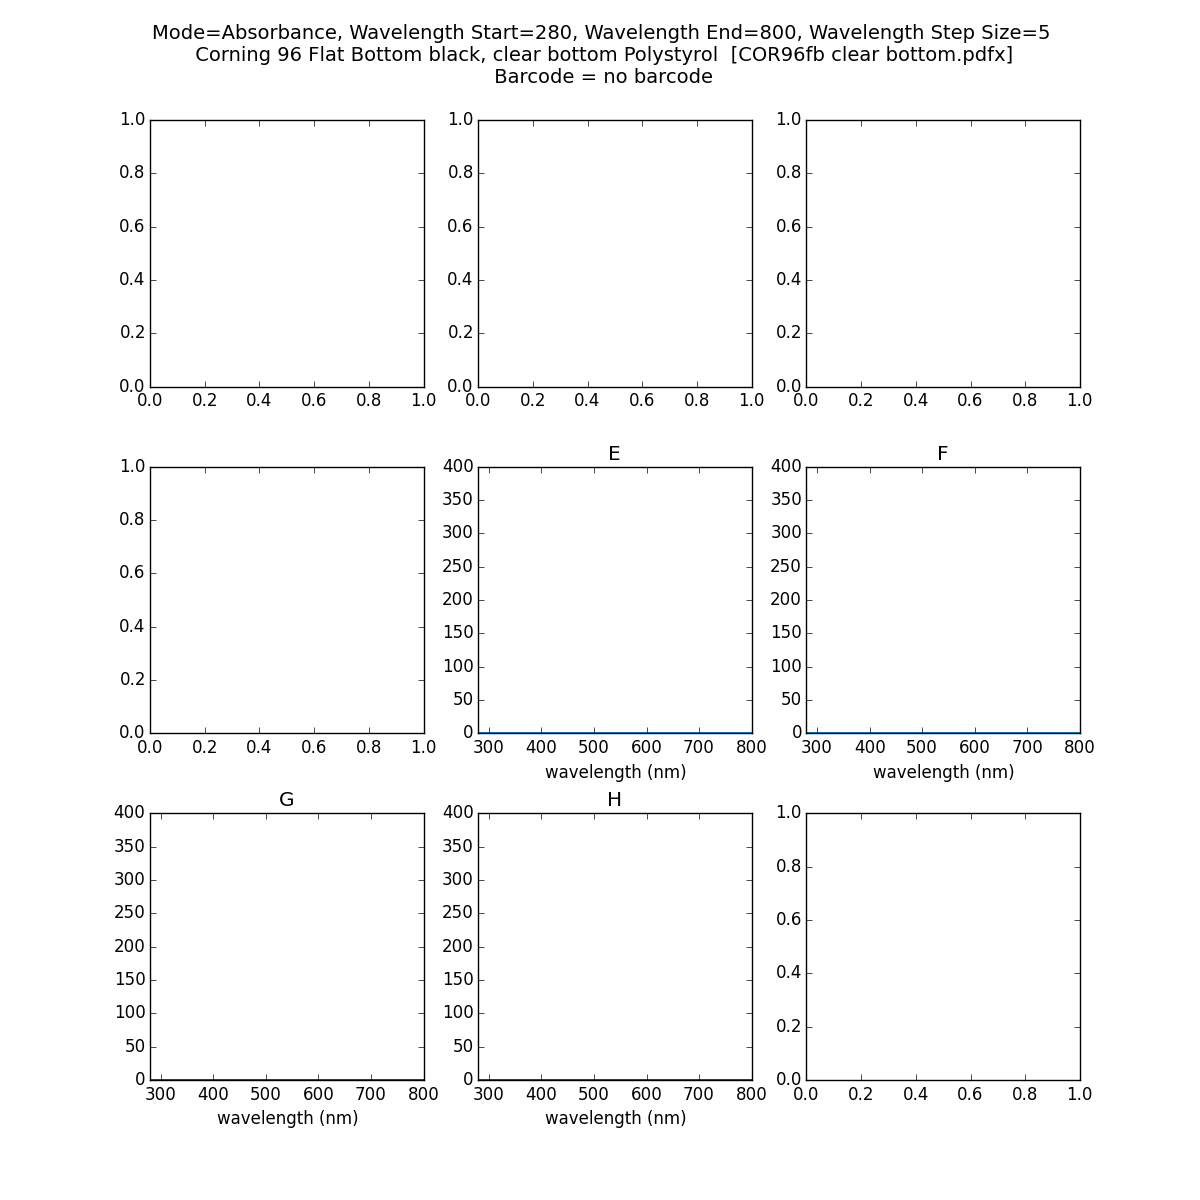
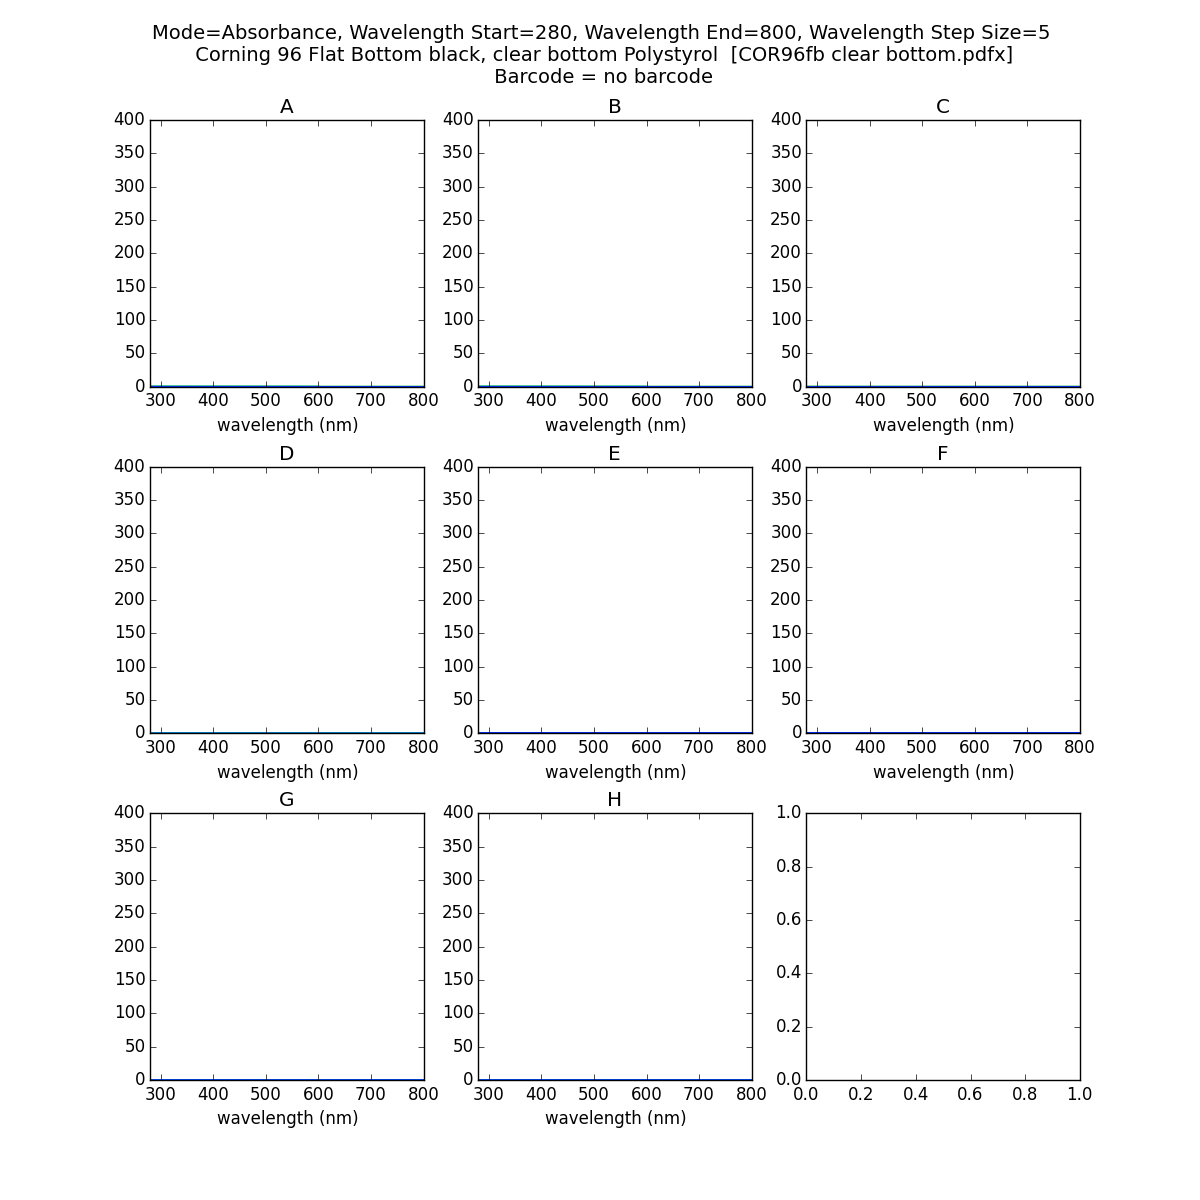
Fixed spectra script to combine plotting for all pngs

diff --git a/examples/xml2png_spectra/xml2png4scans-spectra.py b/examples/xml2png_spectra/xml2png4scans-spectra.py
@@ -1,0 +1,170 @@
+# This script takes xml data file output from the Tecan Infinite m1000 Pro plate reader
+# and makes quick and dirty images of the raw data.
+
+# But with scans and not just singlet reads.
+# This script specifically combines four spectrum scripts (AB, CD, EF, GH) into a single dataframe and plot.
+
+# The same procedure can be used to make matrices suitable for analysis using
+# matrix = dataframe.values
+
+# Made by Sonya Hanson, with some help from things that worked in xml2png.py and xml2png4scans.py
+# Friday, November 18,2015
+
+# Usage: python xml2png4scans-spectra.py *.xml
+
+############ For future to combine with xml2png.py
+#
+#    for i, sect in enumerate(Sections):
+#        reads = sect.xpath("*/Well")
+#        parameters = root.xpath(path)[0]
+#        if reads[0].attrib['Type'] == "Scan":
+#
+##############
+
+import matplotlib.pyplot as plt
+from lxml import etree
+import pandas as pd
+import matplotlib.cm as cm
+import sys
+import os
+
+### Define xml files.
+
+xml_files = sys.argv[1:]
+
+so_many = len(xml_files)
+print "****This script is about to make png files for %s xml files. ****"  % so_many
+
+### Define extract function that extracts parameters
+
+def extract(taglist):
+    result = []
+    for p in taglist:
+        print "Attempting to extract tag '%s'..." % p
+        try:
+            param = parameters.xpath("*[@Name='" + p + "']")[0]
+            result.append( p + '=' + param.attrib['Value'])
+        except:
+            ### tag not found
+            result.append(None)
+
+    return result
+
+### Define an initial set of dataframes, one per each section
+
+root = etree.parse(xml_files[0])
+
+  # Define Sections.
+
+Sections = root.xpath("/*/Section")
+
+  # Extract Reads for this section.
+
+Sections = root.xpath("/*/Section")
+
+reads = root.xpath("/*/Section[@Name='" + Sections[0].attrib['Name'] + "']/*/Well")
+
+wellIDs = [read.attrib['Pos'] for read in reads]
+
+data = [(float(s.text), float(s.attrib['WL']), r.attrib['Pos'])
+         for r in reads
+         for s in r]
+
+dataframe = pd.DataFrame(data, columns=['fluorescence','wavelength (nm)','Well'])
+
+dataframe_pivot = pd.pivot_table(dataframe, index = 'wavelength (nm)', columns= ['Well'])
+
+large_dataframe1 = dataframe_pivot*0
+large_dataframe2 = dataframe_pivot*0
+large_dataframe3 = dataframe_pivot*0
+
+for file in xml_files:
+
+    ### Parse XML file.
+
+    root = etree.parse(file)
+
+    ### Remove extension from xml filename.
+
+    file_name = os.path.splitext(file)[0]
+
+    ### Extract plate type and barcode.
+
+    plate = root.xpath("/*/Header/Parameters/Parameter[@Name='Plate']")[0]
+    plate_type = plate.attrib['Value']
+
+    try:
+        bar = root.xpath("/*/Plate/BC")[0]
+        barcode = bar.text
+    except:
+        barcode = 'no barcode'
+
+    ### Define Sections.
+
+    Sections = root.xpath("/*/Section")
+    much = len(Sections)
+    print "****The xml file " + file + " has %s data sections:****" % much
+    for sect in Sections:
+        print sect.attrib['Name']
+
+    for i, sect in enumerate(Sections):
+
+        ### Extract Parameters for this section.
+
+        path = "/*/Section[@Name='" + sect.attrib['Name'] + "']/Parameters"
+        parameters = root.xpath(path)[0]
+
+        ### Parameters are extracted slightly differently depending on Absorbance or Fluorescence read.
+        # Attach these to title1, title2, or title3, depending on section which will be the same for all 4 files.
+
+        if  parameters[0].attrib['Value'] == "Absorbance":
+            result = extract(["Mode", "Wavelength Start", "Wavelength End", "Wavelength Step Size"])
+            globals()["title"+str(i+1)] = '%s, %s, %s, %s' % tuple(result)
+
+        else:
+            result = extract(["Gain", "Excitation Wavelength", "Emission Wavelength", "Part of Plate", "Mode"])
+            globals()["title"+str(i+1)] = '%s, %s, %s, \n %s, %s' % tuple(result)
+
+        print "****The %sth section has the parameters:****" %i
+        print globals()["title"+str(i+1)]
+
+        ### Extract Reads for this section.
+
+        Sections = root.xpath("/*/Section")
+
+        reads = root.xpath("/*/Section[@Name='" + sect.attrib['Name'] + "']/*/Well")
+
+        wellIDs = [read.attrib['Pos'] for read in reads]
+
+        data = [(float(s.text), float(s.attrib['WL']), r.attrib['Pos'])
+                 for r in reads
+                 for s in r]
+
+        dataframe = pd.DataFrame(data, columns=['fluorescence','wavelength (nm)','Well'])
+
+        ### Create large_dataframe1, large_dataframe2, and large_dataframe3 that collect data for each section
+        ### as we run through cycle through sections and files.
+
+        globals()["dataframe_pivot"+str(i+1)] = pd.pivot_table(dataframe, index = 'wavelength (nm)', columns= ['Well'])
+
+        globals()["large_dataframe"+str(i+1)] = pd.concat([globals()["large_dataframe"+str(i+1)],globals()["dataframe_pivot"+str(i+1)]])
+
+### Plot, making a separate png for each section.
+
+for i, sect in enumerate(Sections):
+
+    section_name = sect.attrib['Name']
+
+    Alphabet = ['A','B','C','D','E','F','G','H']
+
+    fig, axes = plt.subplots(nrows=3, ncols=3, figsize=(12, 12))
+    for j,A in enumerate(Alphabet):
+        for k in range(1,12):
+            try:
+                globals()["large_dataframe"+str(i+1)].fluorescence.get(A + str(k)).plot(ax=axes[(j/3)%3,j%3], title=A, c=cm.hsv(k*15), ylim=[0,400])
+            except:
+                print "****No row %s.****" %A
+
+    fig.suptitle('%s \n %s \n Barcode = %s' % (globals()["title"+str(i+1)], plate_type, barcode), fontsize=14)
+    fig.subplots_adjust(hspace=0.3)
+    plt.savefig('%s_%s.png' % (file_name, section_name))
